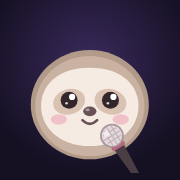
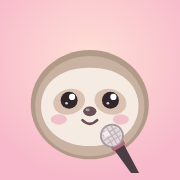
Lighter default look and two yellow looks
- Studio (light rose) is the default instead of Night
- Add Sunny and Lemon looks to the picker
- Light status bar, manifest colors and a rose app icon

Claude-Session: https://claude.ai/code/session_01LKmzNhmZ9jqgUGrJJbZSpb

diff --git a/lesson.html b/lesson.html
@@ -2,11 +2,11 @@
 <html lang="en">
 <head>
 <meta charset="utf-8">
-<script>try{document.documentElement.dataset.theme=localStorage.getItem("lentoTheme")||"night"}catch(e){}</script>
+<script>try{document.documentElement.dataset.theme=localStorage.getItem("lentoTheme")||"studio"}catch(e){}</script>
 <meta name="viewport" content="width=device-width, initial-scale=1, viewport-fit=cover">
 <meta name="apple-mobile-web-app-capable" content="yes">
 <meta name="apple-mobile-web-app-title" content="Lento">
-<meta name="theme-color" content="#151022">
+<meta name="theme-color" content="#fbf4ee">
 <title>Vocal lesson · Lento</title>
 <link rel="preconnect" href="https://fonts.googleapis.com">
 <link rel="preconnect" href="https://fonts.gstatic.com" crossorigin>
@@ -15,7 +15,7 @@
 <link rel="icon" href="sloth.svg">
 <link rel="apple-touch-icon" href="icons/icon-180.png">
 <link rel="manifest" href="manifest.webmanifest">
-<meta name="apple-mobile-web-app-status-bar-style" content="black-translucent">
+<meta name="apple-mobile-web-app-status-bar-style" content="default">
 <style>
   /* Check-in: one question per screen */
   #checkin { min-height: 100svh; max-width: 460px; margin: 0 auto; padding: max(14px, env(safe-area-inset-top)) 22px calc(24px + env(safe-area-inset-bottom)); }
@@ -30,7 +30,7 @@
   .plan .sec { font-size: 11px; font-weight: 600; letter-spacing: .08em; text-transform: uppercase; color: var(--ink-3); width: 74px; flex: none; }
   .plan .row .title { font-size: 14.5px; }
   .plan .row a { color: var(--accent-ink); font-weight: 600; }
-  .themes { display: grid; grid-template-columns: repeat(3, 1fr); gap: 8px; padding: 6px 0 14px; }
+  .themes { display: grid; grid-template-columns: repeat(5, 1fr); gap: 8px; padding: 6px 0 14px; }
   .themes button { padding: 10px 4px; border-radius: 14px; border: 2px solid var(--line); font-size: 13px; font-weight: 600; display: flex; flex-direction: column; align-items: center; gap: 6px; }
   .themes button i { width: 34px; height: 22px; border-radius: 8px; }
   .themes button[aria-pressed="true"] { border-color: var(--accent); }
@@ -775,7 +775,7 @@
   $("showSum").onclick = () => { $("sumList").hidden = false; $("showSum").hidden = true; };
 
   // The look of the app
-  const THEMES = { night: ["Night", "#151022", "#f2b45a"], studio: ["Studio", "#fbf4ee", "#d9577a"], forest: ["Forest", "#f3f1e4", "#3f8f63"] };
+  const THEMES = { sunny: ["Sunny", "#fff8e1", "#ffad1f"], lemon: ["Lemon", "#fffbe8", "#ffd23f"], studio: ["Studio", "#fbf4ee", "#d9577a"], night: ["Night", "#151022", "#f2b45a"], forest: ["Forest", "#f3f1e4", "#3f8f63"] };
   function renderThemes() {
     const cur = document.documentElement.dataset.theme;
     $("themes").innerHTML = Object.entries(THEMES).map(([id, [name, bg, acc]]) =>

diff --git a/theme.css b/theme.css
@@ -1,7 +1,7 @@
 /* Lento design system. Three looks, picked with data-theme on <html>:
-   night (default): a late-night practice room, deep plum with warm gold.
-   studio: warm rose and peach. forest: soft greens and cream. */
-:root, [data-theme="night"] {
+   studio (default): warm rose and peach. night: a late-night practice room,
+   deep plum with warm gold. forest: soft greens and cream. */
+[data-theme="night"] {
   --bg: #151022;
   --bg-glow: radial-gradient(120% 55% at 50% 0%, #2d2047 0%, #151022 65%);
   --surface: #211a33;
@@ -27,7 +27,7 @@
   --shadow: 0 10px 30px rgba(0, 0, 0, .35);
   color-scheme: dark;
 }
-[data-theme="studio"] {
+:root, [data-theme="studio"] {
   --bg: #fbf4ee;
   --bg-glow: linear-gradient(180deg, #fde7e4 0%, #fbf4ee 55%);
   --surface: #ffffff;
@@ -200,3 +200,57 @@ a.row:active, button.row:active, a.card:active { transform: scale(.985); }
 .steps i { flex: 1; height: 6px; border-radius: 3px; background: var(--line); transition: background .3s; }
 .steps i.on { background: var(--accent); }
 .fade-in { animation: page-in .35s cubic-bezier(.2, .8, .2, 1) both; }
+
+/* Yellow looks */
+[data-theme="sunny"] {
+  --bg: #fff8e1;
+  --bg-glow: linear-gradient(180deg, #ffefb0 0%, #fff8e1 55%);
+  --surface: #ffffff;
+  --surface-2: #fffcf0;
+  --ink: #33270f;
+  --ink-2: #6f5d3a;
+  --ink-3: #ab9b78;
+  --line: #f3e6bf;
+  --accent: #f0a500;
+  --accent-ink: #b57400;
+  --accent-soft: #ffefc2;
+  --ok: #3a9d6a;
+  --ok-soft: #dcf2e4;
+  --low: #e07b2e;
+  --low-soft: #fbe5d2;
+  --high: #d9534f;
+  --high-soft: #f9dedd;
+  --bar: rgba(255, 252, 240, .94);
+  --cta: linear-gradient(135deg, #ffd54a, #ffad1f);
+  --cta-ink: #33270f;
+  --cta-shadow: 0 8px 20px rgba(240, 165, 0, .35);
+  --halo: radial-gradient(closest-side, rgba(255, 213, 74, .55), transparent);
+  --shadow: 0 2px 4px rgba(120, 90, 20, .05), 0 12px 30px rgba(240, 165, 0, .12);
+  color-scheme: light;
+}
+[data-theme="lemon"] {
+  --bg: #fffbe8;
+  --bg-glow: linear-gradient(180deg, #fff3a8 0%, #fffbe8 50%);
+  --surface: #ffffff;
+  --surface-2: #fffdf3;
+  --ink: #1f1b12;
+  --ink-2: #5d5544;
+  --ink-3: #a29a84;
+  --line: #efe8c8;
+  --accent: #e6b800;
+  --accent-ink: #8f7200;
+  --accent-soft: #fff4b8;
+  --ok: #2f9e6e;
+  --ok-soft: #d8f2e5;
+  --low: #e0832e;
+  --low-soft: #fbe7d3;
+  --high: #d4504d;
+  --high-soft: #f8dcdb;
+  --bar: rgba(255, 253, 243, .95);
+  --cta: #ffd23f;
+  --cta-ink: #1f1b12;
+  --cta-shadow: 0 5px 0 #d9a800;
+  --halo: radial-gradient(closest-side, rgba(255, 228, 92, .6), transparent);
+  --shadow: 0 3px 0 rgba(31, 27, 18, .05), 0 10px 26px rgba(214, 170, 0, .10);
+  color-scheme: light;
+}

diff --git a/index.html b/index.html
@@ -2,11 +2,11 @@
 <html lang="en">
 <head>
 <meta charset="utf-8">
-<script>try{document.documentElement.dataset.theme=localStorage.getItem("lentoTheme")||"night"}catch(e){}</script>
+<script>try{document.documentElement.dataset.theme=localStorage.getItem("lentoTheme")||"studio"}catch(e){}</script>
 <meta name="viewport" content="width=device-width, initial-scale=1, viewport-fit=cover">
 <meta name="apple-mobile-web-app-capable" content="yes">
 <meta name="apple-mobile-web-app-title" content="Lento">
-<meta name="theme-color" content="#151022">
+<meta name="theme-color" content="#fbf4ee">
 <title>Lento · Vocal coach</title>
 <link rel="preconnect" href="https://fonts.googleapis.com">
 <link rel="preconnect" href="https://fonts.gstatic.com" crossorigin>
@@ -15,7 +15,7 @@
 <link rel="icon" href="sloth.svg">
 <link rel="apple-touch-icon" href="icons/icon-180.png">
 <link rel="manifest" href="manifest.webmanifest">
-<meta name="apple-mobile-web-app-status-bar-style" content="black-translucent">
+<meta name="apple-mobile-web-app-status-bar-style" content="default">
 <style>
   .scene { min-height: 100svh; padding: max(16px, env(safe-area-inset-top)) 22px calc(104px + env(safe-area-inset-bottom)); max-width: 460px; margin: 0 auto; }
   .top { width: 100%; display: flex; align-items: center; justify-content: space-between; }

diff --git a/welcome.html b/welcome.html
@@ -2,11 +2,11 @@
 <html lang="en">
 <head>
 <meta charset="utf-8">
-<script>try{document.documentElement.dataset.theme=localStorage.getItem("lentoTheme")||"night"}catch(e){}</script>
+<script>try{document.documentElement.dataset.theme=localStorage.getItem("lentoTheme")||"studio"}catch(e){}</script>
 <meta name="viewport" content="width=device-width, initial-scale=1, viewport-fit=cover">
 <meta name="apple-mobile-web-app-capable" content="yes">
 <meta name="apple-mobile-web-app-title" content="Lento">
-<meta name="theme-color" content="#151022">
+<meta name="theme-color" content="#fbf4ee">
 <title>Meet Lento</title>
 <link rel="preconnect" href="https://fonts.googleapis.com">
 <link rel="preconnect" href="https://fonts.gstatic.com" crossorigin>
@@ -15,7 +15,7 @@
 <link rel="icon" href="sloth.svg">
 <link rel="apple-touch-icon" href="icons/icon-180.png">
 <link rel="manifest" href="manifest.webmanifest">
-<meta name="apple-mobile-web-app-status-bar-style" content="black-translucent">
+<meta name="apple-mobile-web-app-status-bar-style" content="default">
 <style>
   .scene { min-height: 100svh; max-width: 460px; margin: 0 auto; padding: max(16px, env(safe-area-inset-top)) 22px calc(24px + env(safe-area-inset-bottom)); }
   .say { font-size: 19px; }

diff --git a/progress.html b/progress.html
@@ -2,11 +2,11 @@
 <html lang="en">
 <head>
 <meta charset="utf-8">
-<script>try{document.documentElement.dataset.theme=localStorage.getItem("lentoTheme")||"night"}catch(e){}</script>
+<script>try{document.documentElement.dataset.theme=localStorage.getItem("lentoTheme")||"studio"}catch(e){}</script>
 <meta name="viewport" content="width=device-width, initial-scale=1, viewport-fit=cover">
 <meta name="apple-mobile-web-app-capable" content="yes">
 <meta name="apple-mobile-web-app-title" content="Lento">
-<meta name="theme-color" content="#151022">
+<meta name="theme-color" content="#fbf4ee">
 <title>Progress · Lento</title>
 <link rel="preconnect" href="https://fonts.googleapis.com">
 <link rel="preconnect" href="https://fonts.gstatic.com" crossorigin>
@@ -15,7 +15,7 @@
 <link rel="icon" href="sloth.svg">
 <link rel="apple-touch-icon" href="icons/icon-180.png">
 <link rel="manifest" href="manifest.webmanifest">
-<meta name="apple-mobile-web-app-status-bar-style" content="black-translucent">
+<meta name="apple-mobile-web-app-status-bar-style" content="default">
 <style>
   .chart-card { padding: 16px; display: flex; flex-direction: column; gap: 10px; }
   .chart-top { display: flex; justify-content: space-between; align-items: baseline; }

diff --git a/tuner.html b/tuner.html
@@ -2,11 +2,11 @@
 <html lang="en">
 <head>
 <meta charset="utf-8">
-<script>try{document.documentElement.dataset.theme=localStorage.getItem("lentoTheme")||"night"}catch(e){}</script>
+<script>try{document.documentElement.dataset.theme=localStorage.getItem("lentoTheme")||"studio"}catch(e){}</script>
 <meta name="viewport" content="width=device-width, initial-scale=1, viewport-fit=cover">
 <meta name="apple-mobile-web-app-capable" content="yes">
 <meta name="apple-mobile-web-app-title" content="Lento">
-<meta name="theme-color" content="#151022">
+<meta name="theme-color" content="#fbf4ee">
 <title>Tuner · Lento</title>
 <link rel="preconnect" href="https://fonts.googleapis.com">
 <link rel="preconnect" href="https://fonts.gstatic.com" crossorigin>
@@ -15,7 +15,7 @@
 <link rel="icon" href="sloth.svg">
 <link rel="apple-touch-icon" href="icons/icon-180.png">
 <link rel="manifest" href="manifest.webmanifest">
-<meta name="apple-mobile-web-app-status-bar-style" content="black-translucent">
+<meta name="apple-mobile-web-app-status-bar-style" content="default">
 <style>
   .readout { padding: 22px 18px 18px; display: flex; flex-direction: column; gap: 18px; }
   .note { text-align: center; }

diff --git a/song.html b/song.html
@@ -2,11 +2,11 @@
 <html lang="en">
 <head>
 <meta charset="utf-8">
-<script>try{document.documentElement.dataset.theme=localStorage.getItem("lentoTheme")||"night"}catch(e){}</script>
+<script>try{document.documentElement.dataset.theme=localStorage.getItem("lentoTheme")||"studio"}catch(e){}</script>
 <meta name="viewport" content="width=device-width, initial-scale=1, viewport-fit=cover">
 <meta name="apple-mobile-web-app-capable" content="yes">
 <meta name="apple-mobile-web-app-title" content="Lento">
-<meta name="theme-color" content="#151022">
+<meta name="theme-color" content="#fbf4ee">
 <title>Your song · Lento</title>
 <link rel="preconnect" href="https://fonts.googleapis.com">
 <link rel="preconnect" href="https://fonts.gstatic.com" crossorigin>
@@ -15,7 +15,7 @@
 <link rel="icon" href="sloth.svg">
 <link rel="apple-touch-icon" href="icons/icon-180.png">
 <link rel="manifest" href="manifest.webmanifest">
-<meta name="apple-mobile-web-app-status-bar-style" content="black-translucent">
+<meta name="apple-mobile-web-app-status-bar-style" content="default">
 <style>
   .app { gap: 18px; }
   .nav { display: flex; align-items: center; justify-content: space-between; }
